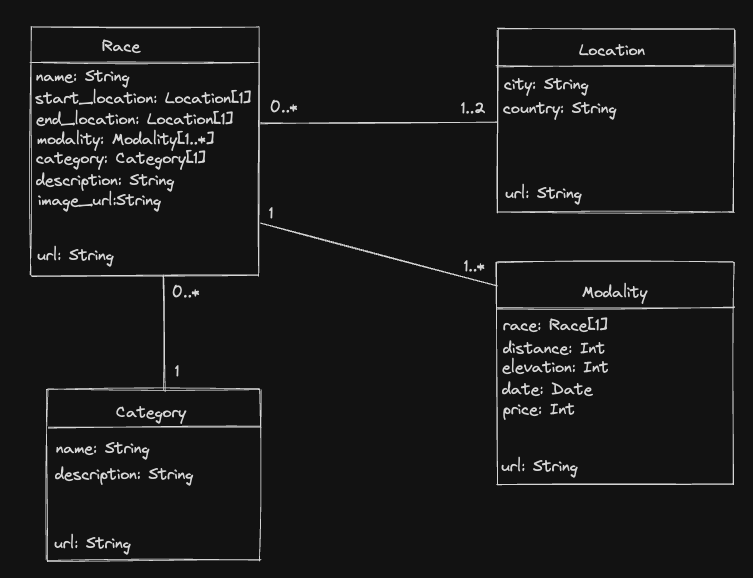
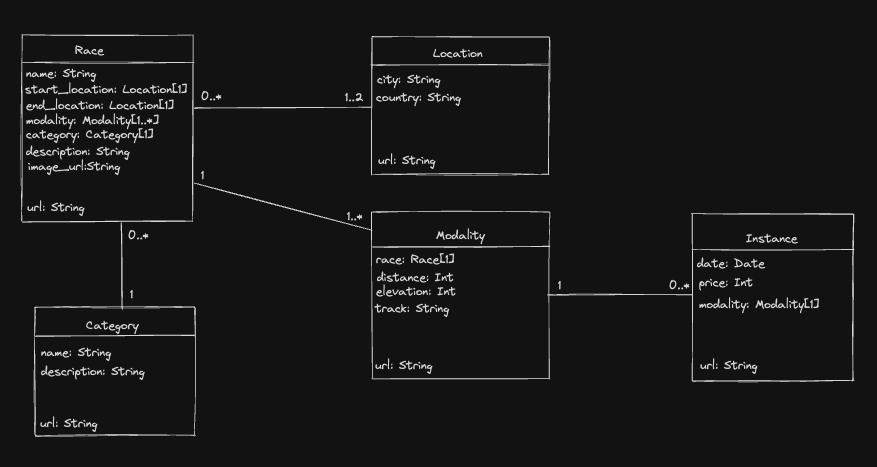
models code implemented

diff --git a/models/race.js b/models/race.js
@@ -1,0 +1,26 @@
+const mongoose = require('mongoose');
+const category = require('./category');
+const location = require('./location');
+const modality = require('./modality');
+
+const Schema = mongoose.Schema;
+
+const RaceSchema = new Schema({
+    name: { type: String, required: true, max: 200 },
+    start_location: { type: Schema.Types.ObjectId, ref: 'Location', required: true },
+    end_location: { type: Schema.Types.ObjectId, ref: 'Location', required: true },
+    modality: { type: Schema.Types.ObjectId, ref: 'Modality', required: true },
+    category: { type: Schema.Types.ObjectId, ref: 'Category', required: true },
+    description: { type: String, max: 1000 },
+    image_url: { type: String, max: 1000 },
+});
+
+// Virtual for race's URL
+RaceSchema
+    .virtual('url')
+    .get(function() {
+        return '/catalog/race/' + this._id;
+    });
+
+// Export model
+module.exports = mongoose.model('Race', RaceSchema);

diff --git a/models/instance.js b/models/instance.js
@@ -1,0 +1,21 @@
+const mongoose = require('mongoose');
+const modality = require('./modality');
+
+const Schema = mongoose.Schema;
+
+const InstanceSchema = new Schema({
+    modality: { type: Schema.Types.ObjectId, ref: 'Modality', required: true },
+    date: { type: Date, required: true },
+    time: { type: String, required: true, max: 100 },
+    price: { type: Number, required: true },
+});
+
+// Virtual for instance's URL
+InstanceSchema
+    .virtual('url')
+    .get(function() {
+        return '/catalog/instance/' + this._id;
+    });
+
+// Export model
+module.exports = mongoose.model('Instance', InstanceSchema);

diff --git a/models/modality.js b/models/modality.js
@@ -1,0 +1,21 @@
+const mongoose = require('mongoose');
+const race = require('./race');
+
+const Schema = mongoose.Schema;
+
+const ModalitySchema = new Schema({
+    race: { type: Schema.Types.ObjectId, ref: 'Race', required: true },
+    distance: { type: Number, required: true },
+    elevation: { type: Number, required: true },
+    track: { type: String, required: true, max: 10000 },
+});
+
+// Virtual for modality's URL
+ModalitySchema
+    .virtual('url')
+    .get(function() {
+        return '/catalog/modality/' + this._id;
+    });
+
+// Export model
+module.exports = mongoose.model('Modality', ModalitySchema);
